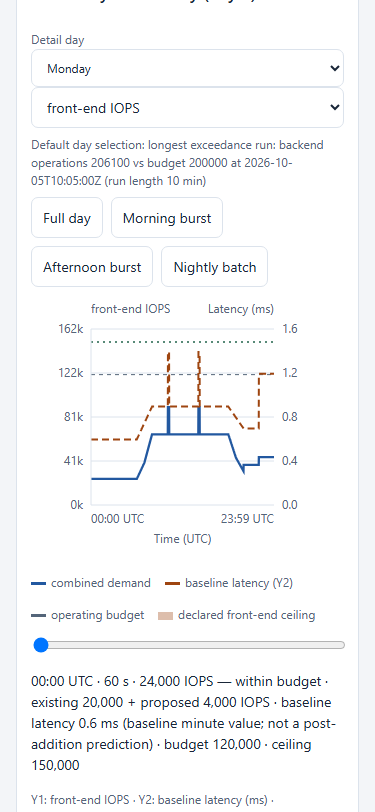
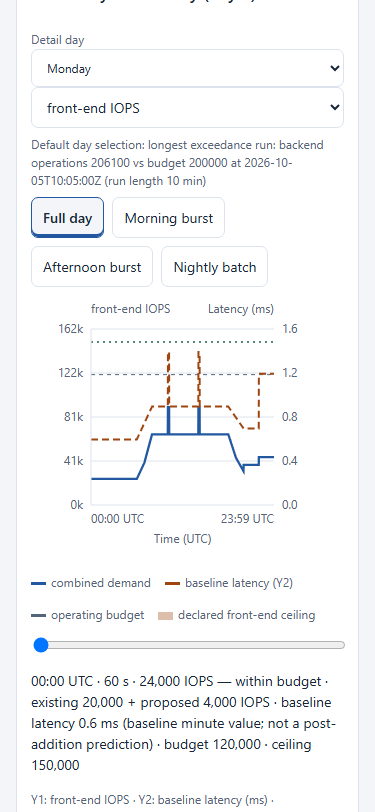
V1 polish: preset selection state, RAG workload-details expandable
- DetailChart presets carry aria-pressed with a distinct selected style;
  focus-visible outline kept separate from selection; changing the detail
  day resets selection and window to Full day
- New WorkloadDetails expandable: profile description, per-phase schedule
  table with derived bandwidth (IOPS x weighted block size), assumptions
- wl-rag.json clarifies the self-hosted vector/search deployment on
  assessed block storage (scenario assumption), the query vs
  ingestion/index-maintenance phases, and scope limits (no GPU inference,
  token generation, or universal RAG benchmark); ingestion row annotated
  as a three-hour substantial synthetic assumption
- ScheduleRow gains optional display-only note field; no demand values or
  engine rules changed

Generated with [Devin](https://devin.ai)

Changed region(s): [[0.088, 0.2463, 0.2933, 0.3079], [0.2933, 0.2463, 0.616, 0.2771], [0.0587, 0.2463, 0.088, 0.2771]]

diff --git a/tests/e2e/advisor.spec.ts b/tests/e2e/advisor.spec.ts
@@ -108,9 +108,18 @@ test.describe('M4 browser verification', () => {
     const dp = detailPanel(page);
     const slider = dp.getByLabel('Inspect minute');
     const readout = dp.getByRole('status');
+    const pressed = dp.locator('button[aria-pressed="true"]');
+
+    // Full day is the selected preset on load — exactly one pressed
+    await expect(pressed).toHaveCount(1);
+    await expect(dp.getByRole('button', { name: 'Full day' })).toHaveAttribute('aria-pressed', 'true');
 
     await dp.getByRole('button', { name: 'Morning burst' }).click();
     await expect(readout).toContainText('10:00 UTC');
+    // selection visibly retained: exactly one pressed button, matching the window
+    await expect(pressed).toHaveCount(1);
+    await expect(dp.getByRole('button', { name: 'Morning burst' })).toHaveAttribute('aria-pressed', 'true');
+    await expect(dp.getByRole('button', { name: 'Full day' })).toHaveAttribute('aria-pressed', 'false');
     await setSlider(slider, 5);
     await expect(readout).toContainText('10:05 UTC');
     await expect(readout).toContainText('1.4 ms');
@@ -140,14 +149,32 @@ test.describe('M4 browser verification', () => {
     await expect(readout).toContainText('65536');
     await shot(page, 'desktop-rag-unknown-ingestion');
 
-    // day selector: Saturday disables morning burst with explanation
+    // day selector: Saturday disables morning burst, resets selection to Full day
     await dp.getByLabel('Detail day').selectOption('5');
     await expect(dp.getByRole('button', { name: 'Morning burst' })).toBeDisabled();
+    await expect(pressed).toHaveCount(1);
+    await expect(dp.getByRole('button', { name: 'Full day' })).toHaveAttribute('aria-pressed', 'true');
     await expect(dp.getByText(/No morning burst window is scheduled on Saturday/)).toBeVisible();
     await expect(dp.getByText(/Engine default: Monday/)).toBeVisible();
 
     // latency axis label exists, distinct from Y1
     await expect(dp.locator('svg').getByText('Latency (ms)')).toBeVisible();
+  });
+
+  test('h. workload details expand with phases and the RAG deployment assumption', async ({ page }) => {
+    await selectScenario(page, 'INF-A', 'WL-RAG');
+    const det = page.locator('details').filter({ hasText: 'Workload details' });
+    await det.locator('summary').click();
+    await expect(det).toContainText('self-hosted vector/search service');
+    await expect(det).toContainText('not a requirement of RAG');
+    await expect(det).toContainText('query-time retrieval');
+    await expect(det).toContainText('ingestion/index maintenance');
+    await expect(det).toContainText('GPU inference');
+    // phase table: three-hour ingestion window, derived bandwidth shown
+    await expect(det).toContainText('02:00–05:00');
+    await expect(det).toContainText('substantial synthetic assumption');
+    await expect(det).toContainText('1.31 GB/s');
+    await shot(page, 'desktop-workload-details-rag');
   });
 
   test('e. exports download engine output', async ({ page }) => {

diff --git a/src/ui/components/WorkloadDetails.tsx b/src/ui/components/WorkloadDetails.tsx
@@ -1,0 +1,69 @@
+import type { WorkloadProfile } from '../../engine/index.js';
+import { chooseRateUnit, formatRate, phaseRows } from '../viewModel.js';
+
+const kib = (b: number) => `${(b / 1024).toLocaleString('en-US')} KiB`;
+const hours = (minutes: number) =>
+  `${(minutes / 60).toLocaleString('en-US', { maximumFractionDigits: 1 })} h`;
+
+function bandwidth(range: [number, number]): string {
+  const unit = chooseRateUnit([range[0], range[1]]);
+  return range[0] === range[1]
+    ? formatRate(range[0], unit)
+    : `${formatRate(range[0], unit)} → ${formatRate(range[1], unit)}`;
+}
+
+/** Expandable description of the proposed workload: declared description,
+ *  schedule phases with derived bandwidth, and declared assumptions.
+ *  Display only — nothing here feeds the assessment. */
+export function WorkloadDetails({ workload }: { workload: WorkloadProfile }) {
+  const rows = phaseRows(workload);
+  return (
+    <details className="env">
+      <summary>
+        Workload details — {workload.id} · {workload.name}
+      </summary>
+      <p className="small">{workload.description}</p>
+      <table className="evidence-table phase-table">
+        <thead>
+          <tr>
+            <th>Schedule phase</th>
+            <th>Days</th>
+            <th>Window (UTC)</th>
+            <th>Duration</th>
+            <th>IOPS</th>
+            <th>Blocks R / W · read share</th>
+            <th>Derived bandwidth</th>
+          </tr>
+        </thead>
+        <tbody>
+          {rows.map((r) => (
+            <tr key={`${r.name}|${r.days}|${r.windowUtc}`}>
+              <td>
+                {r.name}
+                {r.note && <div className="small">{r.note}</div>}
+              </td>
+              <td>{r.days}</td>
+              <td>{r.windowUtc}</td>
+              <td>{hours(r.durationMinutes)}</td>
+              <td>
+                {r.iopsStart === r.iopsEnd
+                  ? r.iopsStart.toLocaleString('en-US')
+                  : `${r.iopsStart.toLocaleString('en-US')} → ${r.iopsEnd.toLocaleString('en-US')}`}
+              </td>
+              <td>
+                {kib(r.readBlockBytes)} / {kib(r.writeBlockBytes)} ·{' '}
+                {(r.readFraction * 100).toFixed(0)}% reads
+              </td>
+              <td>{bandwidth([r.bandwidthStartBps, r.bandwidthEndBps])}</td>
+            </tr>
+          ))}
+        </tbody>
+      </table>
+      <ul className="small">
+        {(workload.assumptions ?? []).map((a) => (
+          <li key={a}>{a}</li>
+        ))}
+      </ul>
+    </details>
+  );
+}

diff --git a/tests/ui/App.test.tsx b/tests/ui/App.test.tsx
@@ -83,4 +83,44 @@ describe('App (default INF-B × WL-VM)', () => {
     expect(screen.getByText(/Engine default: Monday/)).toBeInTheDocument();
     expect(screen.getByText(/No morning burst window is scheduled on Saturday/)).toBeInTheDocument();
   });
+
+  it('exactly one available preset stays selected and agrees with the displayed window', () => {
+    renderApp();
+    const pressed = () => screen.getAllByRole('button', { pressed: true });
+    expect(pressed()).toHaveLength(1);
+    expect(pressed()[0]).toHaveTextContent('Full day');
+
+    fireEvent.click(screen.getByRole('button', { name: 'Morning burst' }));
+    expect(pressed()).toHaveLength(1);
+    expect(pressed()[0]).toHaveTextContent('Morning burst');
+    // the displayed window agrees: the axis starts at 10:00 UTC (burst 10:05 − 5)
+    expect(screen.getByText('10:00 UTC')).toBeInTheDocument();
+    expect(screen.getByText('10:19 UTC')).toBeInTheDocument();
+
+    // changing the detail day resets selection to Full day and the window agrees
+    fireEvent.change(screen.getByLabelText('Detail day'), { target: { value: '5' } });
+    expect(pressed()).toHaveLength(1);
+    expect(pressed()[0]).toHaveTextContent('Full day');
+    expect(screen.getByText('00:00 UTC')).toBeInTheDocument();
+    // the disabled Saturday preset is not selectable
+    expect(screen.getByRole('button', { name: 'Morning burst' })).toBeDisabled();
+    expect(screen.getByRole('button', { name: 'Morning burst' })).toHaveAttribute('aria-pressed', 'false');
+  });
+
+  it('workload details describe the synthetic RAG deployment and phases', () => {
+    renderApp();
+    fireEvent.change(screen.getByLabelText('Proposed workload'), { target: { value: 'WL-RAG' } });
+    const det = screen.getByText(/Workload details — WL-RAG/).closest('details')!;
+    expect(det.textContent).toContain('self-hosted vector/search service');
+    expect(det.textContent).toContain('scenario choice, not a requirement of RAG');
+    expect(det.textContent).toContain('query-time retrieval');
+    expect(det.textContent).toContain('ingestion/index maintenance');
+    expect(det.textContent).toContain('GPU inference');
+    // phase table: 3 h ingestion window with derived 64 KiB bandwidth
+    expect(det.textContent).toContain('02:00–05:00');
+    expect(det.textContent).toContain('3 h');
+    expect(det.textContent).toContain('substantial synthetic assumption');
+    expect(det.textContent).toContain('1.31 GB/s');
+    expect(det.textContent).toContain('245.76 MB/s');
+  });
 });

diff --git a/src/ui/viewModel.ts b/src/ui/viewModel.ts
@@ -206,6 +206,57 @@ export function presetWindows(baselineSchedule: ScheduleRow[], dayIndex: number)
   return presets;
 }
 
+// ---- Workload phase table ----------------------------------------------------
+
+export interface PhaseRow {
+  name: string;
+  days: string;
+  /** 'HH:MM–HH:MM' UTC */
+  windowUtc: string;
+  durationMinutes: number;
+  /** ramp-aware: start == end for flat rows */
+  iopsStart: number;
+  iopsEnd: number;
+  readFraction: number;
+  readBlockBytes: number;
+  writeBlockBytes: number;
+  /** derived front-end bandwidth at window start/end, bytes/second */
+  bandwidthStartBps: number;
+  bandwidthEndBps: number;
+  note?: string;
+}
+
+const windowDuration = (start: number, end: number): number =>
+  end > start ? end - start : MINUTES_PER_DAY - start + end;
+
+/** Per-schedule-row demand phases with derived front-end bandwidth
+ *  (IOPS × read/write-weighted block size — the same formula the trace
+ *  generator uses; display only, never feeds the assessment). */
+export function phaseRows(workload: WorkloadProfile): PhaseRow[] {
+  return workload.schedule.map((r) => {
+    const iopsStart = r.iops ?? r.iopsStart ?? 0;
+    const iopsEnd = r.iops ?? r.iopsEnd ?? iopsStart;
+    const weightedBlock =
+      r.readFraction * r.readBlockBytes + (1 - r.readFraction) * r.writeBlockBytes;
+    const start = hhmm(r.start);
+    const end = hhmm(r.end);
+    return {
+      name: r.name ?? 'unnamed',
+      days: r.days,
+      windowUtc: `${r.start}–${r.end}`,
+      durationMinutes: windowDuration(start, end),
+      iopsStart,
+      iopsEnd,
+      readFraction: r.readFraction,
+      readBlockBytes: r.readBlockBytes,
+      writeBlockBytes: r.writeBlockBytes,
+      bandwidthStartBps: iopsStart * weightedBlock,
+      bandwidthEndBps: iopsEnd * weightedBlock,
+      ...(r.note !== undefined ? { note: r.note } : {}),
+    };
+  });
+}
+
 /** Label a bucket/minute by its UTC timestamp: 'Mon 10:00'. Day names are
  *  derived from the timestamp, never from an index. */
 export function bucketLabel(timestampUtc: string): string {

diff --git a/tests/ui/viewModel.test.ts b/tests/ui/viewModel.test.ts
@@ -13,6 +13,7 @@ import {
   protectionCard,
   loadScenario,
   minuteReadout,
+  phaseRows,
   presetWindows,
 } from '../../src/ui/viewModel.js';
 import { deriveTraceMinutes } from '../../src/engine/index.js';
@@ -190,6 +191,30 @@ describe('latencyCard / protectionCard', () => {
     expect(drive).toMatchObject({ required: '1', declared: '2' }); // INF-B RAID 6 tolerates 2
     expect(rows.find((r) => r.name === 'snapshots')!.declared).toBe('true');
     expect(rows.find((r) => r.name === 'replication')!.declared).toBe('unknown');
+  });
+});
+
+describe('phaseRows', () => {
+  it('derives per-phase bandwidth from IOPS × read/write-weighted block size', () => {
+    const rows = phaseRows(loadScenario('INF-A', 'WL-RAG').workload);
+    const query = rows.find((r) => r.name === 'query-hours' && r.days === 'weekday')!;
+    expect(query.bandwidthStartBps).toBeCloseTo(30_000 * 8192, 0); // 245,760,000 B/s
+    const ingestion = rows.find((r) => r.name === 'ingestion')!;
+    expect(ingestion.windowUtc).toBe('02:00–05:00');
+    expect(ingestion.durationMinutes).toBe(180); // the three-hour synthetic assumption
+    expect(ingestion.bandwidthStartBps).toBeCloseTo(20_000 * 65536, 0); // 1,310,720,000 B/s
+    expect(ingestion.note).toMatch(/substantial synthetic assumption/);
+  });
+
+  it('handles overnight windows and ramp rows', () => {
+    const rag = phaseRows(loadScenario('INF-A', 'WL-RAG').workload);
+    const off = rag.find((r) => r.windowUtc === '20:00–02:00')!;
+    expect(off.durationMinutes).toBe(360); // wraps midnight
+    const vm = phaseRows(loadScenario('INF-B', 'WL-VM').workload);
+    const ramp = vm.find((r) => r.name === 'morning-ramp')!;
+    const weightedBlock = 0.7 * 16384 + 0.3 * 8192;
+    expect(ramp.bandwidthStartBps).toBeCloseTo(4_000 * weightedBlock, 0);
+    expect(ramp.bandwidthEndBps).toBeCloseTo(15_000 * weightedBlock, 0);
   });
 });
 

diff --git a/src/ui/components/DetailChart.tsx b/src/ui/components/DetailChart.tsx
@@ -1,4 +1,4 @@
-import { useMemo, useState } from 'react';
+import { useEffect, useMemo, useState } from 'react';
 import { useChartWidth } from '../useChartWidth.js';
 import type { DerivedMinute, TraceRecord } from '../../engine/index.js';
 import type { TraceAssessment } from '../../engine/index.js';
@@ -40,6 +40,13 @@ export function DetailChart({ assessment, day, derivedDay, dayIndex, onDayChange
   const [inspect, setInspect] = useState(0); // offset within window
   const [activePreset, setActivePreset] = useState('full-day');
   const presets = presetWindows(BASELINE_SCHEDULE, dayIndex);
+  // Changing the detail day (or a scenario reset that changes it) returns the
+  // inspection window and the selected preset to Full day.
+  useEffect(() => {
+    setWindowRange([0, 1440]);
+    setInspect(0);
+    setActivePreset('full-day');
+  }, [dayIndex]);
   const { ref: chartRef, width: W } = useChartWidth();
   const RIGHT = W - RIGHT_PAD;
 
@@ -138,11 +145,7 @@ export function DetailChart({ assessment, day, derivedDay, dayIndex, onDayChange
             <select
               aria-label="Detail day"
               value={dayIndex}
-              onChange={(e) => {
-                onDayChange(Number(e.target.value));
-                setWindowRange([0, 1440]);
-                setInspect(0);
-              }}
+              onChange={(e) => onDayChange(Number(e.target.value))}
             >
               {DAY_NAMES.map((d, di) => (
                 <option key={d} value={di}>
@@ -170,6 +173,7 @@ export function DetailChart({ assessment, day, derivedDay, dayIndex, onDayChange
           <button
             key={p.id}
             disabled={!p.available}
+            aria-pressed={activePreset === p.id}
             title={p.explanation ?? p.note}
             onClick={() => {
               setActivePreset(p.id);

diff --git a/src/App.tsx b/src/App.tsx
@@ -4,6 +4,7 @@ import { Controls, type Selection } from './ui/components/Controls.tsx';
 import { DecisionBanner } from './ui/components/DecisionBanner.tsx';
 import { DimensionCards } from './ui/components/DimensionCards.tsx';
 import { EnvironmentDetails } from './ui/components/EnvironmentDetails.tsx';
+import { WorkloadDetails } from './ui/components/WorkloadDetails.tsx';
 import { WeeklyChart } from './ui/components/WeeklyChart.tsx';
 import { DetailChart } from './ui/components/DetailChart.tsx';
 import { WhatIfPanel } from './ui/components/WhatIfPanel.tsx';
@@ -55,6 +56,7 @@ function App() {
         <DecisionBanner assessment={a} />
         <DimensionCards dimensions={a.dimensions} weekly={a.weekly} />
         <EnvironmentDetails infra={scenario.infra} />
+        <WorkloadDetails workload={scenario.workload} />
         <div className="columns">
           <div>
             <WeeklyChart

diff --git a/src/index.css b/src/index.css
@@ -146,6 +146,18 @@ select { max-width: 100%; }
 .stats b { display: block; font-weight: 500; }
 
 .preset-buttons { display: flex; gap: 8px; flex-wrap: wrap; margin: 8px 0; }
+/* Selected preset: brand border + underline bar. Keyboard focus uses a
+   distinct warn-colored outline so focus never reads as selection. */
+.preset-buttons button[aria-pressed='true'] {
+  border-color: var(--brand);
+  background: var(--bg);
+  font-weight: 600;
+  box-shadow: inset 0 -3px 0 var(--brand);
+}
+.preset-buttons button:focus-visible {
+  outline: 2px solid var(--warn);
+  outline-offset: 2px;
+}
 .preset-note { margin: 2px 0; }
 
 .delta-table, .evidence-table { width: 100%; border-collapse: collapse; font-size: 12px; margin: 8px 0; }

diff --git a/src/engine/model.ts b/src/engine/model.ts
@@ -96,6 +96,8 @@ export interface ScheduleRow {
   readFraction: number;
   readBlockBytes: number;
   writeBlockBytes: number;
+  /** Display-only annotation for the workload-details phase table; no rule reads it. */
+  note?: string;
 }
 
 export interface WorkloadProfile {

diff --git a/docs/tests.md b/docs/tests.md
@@ -68,6 +68,8 @@ Requirement IDs are defined in `docs/devin-initial-review.md` §6.1.
 | R-UI-3 | Narrow layout: no horizontal overflow at 375 px, panels stack, SVG axes and non-overlapping Y1/Y2 labels, wrapped legend | `tests/e2e/advisor.spec.ts` (Playwright, mobile project) |
 | R-UI-4 | No PowerMax/ONTAP/validated/production-sizing claims; no predicted post-addition latency | `tests/e2e/advisor.spec.ts` (Playwright, both projects) |
 | — | Browser checks: four combinations, what-ifs, weekly/detail inspection, exports, screenshots | `tests/e2e/advisor.spec.ts` |
+| — | Preset selection: `aria-pressed`, exactly-one-selected invariant, reset to Full day on day change | `tests/ui/App.test.tsx`, `tests/e2e/advisor.spec.ts` |
+| — | `phaseRows` derived phase bandwidth; WorkloadDetails RAG deployment/phases text | `tests/ui/viewModel.test.ts`, `tests/ui/App.test.tsx`, `tests/e2e/advisor.spec.ts` |
 
 ## Executed results history
 
@@ -79,6 +81,7 @@ Requirement IDs are defined in `docs/devin-initial-review.md` §6.1.
 | M3 | 2026-10-07 | `npm test`: 32 files / 171 tests passed |
 | M3 corrections + M4 | 2026-10-07 | `npm test`: 32 files / 179 tests passed; `npm run e2e` (Playwright, Chromium): 15 passed, 3 project-gated skips — 2 mobile-only tests skipped in the desktop viewport project, 1 desktop-only screenshot test skipped in the mobile viewport project |
 | M4 review fixes | 2026-10-07 | `npm test`: 32 files / 183 tests passed; `npm run e2e` (Playwright, Chromium): 15 passed, 3 project-gated skips (same viewport gating) |
+| V1 polish (presets, workload details) | 2026-10-07 | `npm test`: 32 files / 187 tests passed; `npm run e2e` (Playwright, Chromium): 17 passed, 3 project-gated skips (same viewport gating) |
 
 Latest run (October 7, 2026): `npm run typecheck` — 0 errors; `npm run lint` — 0 warnings, 0 errors (77 files); `npm run build` — `dist/assets/index-*.js` 311.38 kB (92.75 kB gzip).
 `npm run golden` regenerated `tests/golden/` M1 fixtures and `tests/golden/m2/*.json` with wording-only diffs ('validated' → 'measured'/'response curve' phrasing for R-UI-4); both golden tests confirm reproduction.

diff --git a/docs/verification.md b/docs/verification.md
@@ -117,6 +117,18 @@ All 10 screenshots were re-generated and re-inspected after these fixes; the rem
 - Screenshots are viewport captures at fixed widths; no print or high-DPI rendering was checked.
 - Keyboard tab-order beyond the sliders and controls was not exhaustively audited.
 
+## V1 polish executed checks
+
+Executed October 7, 2026 (post-M4 polish, committed ahead of redeploy):
+
+| Check | Command | Outcome |
+|---|---|---|
+| Test suite | `npm test` (`vitest run`) | 32 test files, 187 tests, all passed |
+| Type-check / lint | `npm run typecheck` / `npm run lint` | 0 errors / 0 warnings, 0 errors |
+| Playwright e2e | `npm run e2e` (Chromium) | **17 passed, 3 skipped** — same viewport gating; new test `h. workload details…` ran on both projects |
+
+Changes verified: detail-preset buttons carry `aria-pressed` with a visible selected style (brand border + underline; keyboard focus uses a separate warn-colored outline); exactly one preset is selected and agrees with the displayed window; changing the detail day resets to Full day. A new Workload details expandable renders the RAG deployment assumption (self-hosted vector/search service on volumes backed by the assessed block storage — a scenario choice, not a RAG requirement), the two modeled phases (query-time retrieval vs nightly ingestion/index maintenance), per-phase derived bandwidth (e.g. ingestion 20,000 IOPS × 64 KiB = 1.31 GB/s), and the scope note that GPU inference/token generation/corpus sources are outside the model. No demand values or engine rules changed; goldens unaffected. New screenshot: `m4/screenshots/desktop-workload-details-rag.png`.
+
 ## Not yet verified
 
 - Nothing outstanding within M0–M4 scope; V2 modeling, real adapters, and live validation remain deferred scope.
